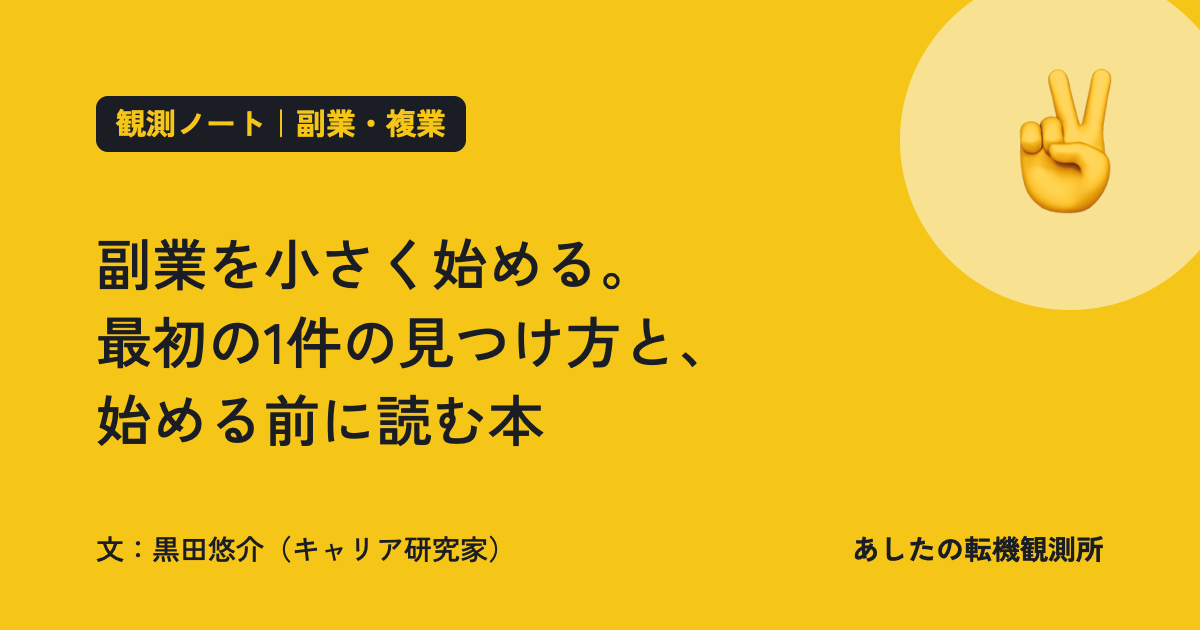
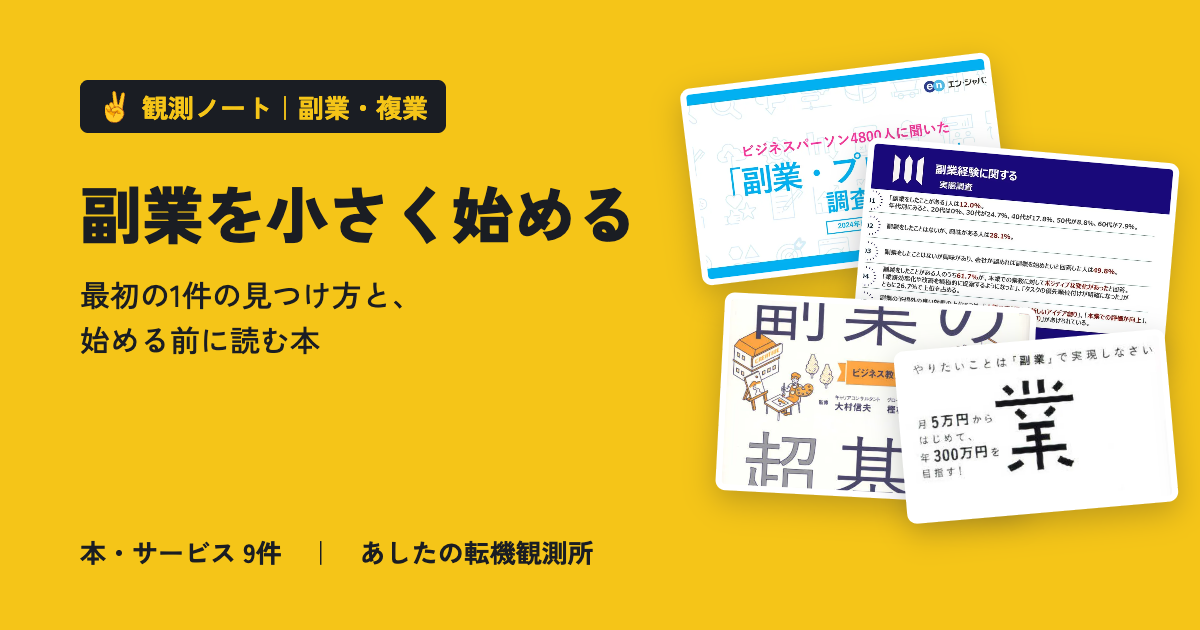
【デザイン】観測ノートの共有画像を案B「中身を見せる」にする（黒田さんの選択）
黄色の地の左に題名（「。」の前を大きく）、右に記事で紹介している本やサービスの画像を4枚まで重ねる。
Mac の Google Chrome で書き出す。

diff --git a/tools/make_og_images.py b/tools/make_og_images.py
@@ -2,7 +2,7 @@
 """共有画像（1200×630）を assets/og/ に作るスクリプト。
 転機別ページ・掛け合わせページの画像と、セルフチェックの画像（全体用1枚と、結果の段階ごとの4枚）を作る。
 
-Mac 専用（画像にするのに Mac の qlmanage を使う）。見出しの文面は config/tenki.json と check/check.js（段階のひとこと説明）から作るので、
+Mac 専用（画像にするのに Mac の qlmanage を使う。観測ノートの画像は Mac の Google Chrome で書き出す）。見出しの文面は config/tenki.json と check/check.js（段階のひとこと説明）から作るので、
 それらの名前や文面を変えたときにだけ実行し直して、できた画像をリポジトリに入れる。
 
   python3 tools/make_og_images.py
@@ -190,44 +190,101 @@ def antenna_svg():
     return re.search(r"<svg[^>]*>(.*)</svg>", src, re.S).group(1)
 
 
-def svg_note(note, fonts, antenna):
-    """観測ノートの共有画像。黄色の地に、転機の絵文字と記事タイトル。"""
-    title = note["title"]
+CHROME = "/Applications/Google Chrome.app/Contents/MacOS/Google Chrome"
+# 観測ノートの共有画像の重ねる画像の位置（左, 上, 傾き, 幅）。2026-11-20 黒田さんが見本の案B「中身を見せる」を選んだ
+NOTE_CARDS = [(690, 70, -7, 300), (860, 150, 5, 300), (720, 300, 3, 300), (900, 340, -5, 260)]
 
-    def lines_for(width):  # 「。」のあとでは必ず改行し、右上の絵文字の円にかからない幅で折り返す
-        out = []
-        for part in [p for p in title.replace("。", "。\n").split("\n") if p]:
-            out += wrap(part, width)
-        return out
-    size, width = 56, 15
-    lines = lines_for(width)
-    if len(lines) > 3:
-        size, width = 50, 16
-        lines = lines_for(width)
-    line_h = int(size * 1.4)
-    block = line_h * (len(lines) - 1)
-    top = int(345 - block / 2 + size * 0.35)  # 見出しの塊を、上のラベルと下の署名の間の真ん中に置く
-    # 2026-11-10 unslop の見直しでサイトの見出しを太さ500にしたので、画像の題名も 500（Medium）にそろえる（もとは 900）
-    title_svg = "".join('<text x="96" y="%d" font-family="ZK" font-weight="500" font-size="%d" fill="#1a1d23">%s</text>'
-                        % (top + i * line_h, size, esc(line)) for i, line in enumerate(lines))
+
+def split_title(title):
+    """題名を「。」（または「？」）の前（大きく出す）と後ろ（小さく出す）に分ける"""
+    for mark in ("。", "？"):
+        if mark in title:
+            head, rest = title.split(mark, 1)
+            return head + ("？" if mark == "？" else ""), rest
+    return title, ""
+
+
+def data_uri(path, mime):
+    with open(path, "rb") as f:
+        return "data:%s;base64,%s" % (mime, base64.b64encode(f.read()).decode())
+
+
+def two_lines(text):
+    """題名を2行に分ける。「、」のあと、次に助詞のあと（次がひらがなのときは言葉の途中なので切らない。「たら」のあとは切る）を選び、なるべく真ん中に近いところで切る"""
+    n, best = len(text), None
+    for i in range(2, n - 1):
+        prev, nxt = text[i - 1], text[i]
+        if prev in "、・":
+            score = 0
+        elif text[i - 2:i] == "たら" or (prev in "のをにはでとがもへ" and not ("\u3041" <= nxt <= "\u309f")):
+            score = 1
+        else:
+            score = 6
+        cost = score * 10 + abs(i - n / 2)
+        if best is None or cost < best[0]:
+            best = (cost, i)
+    i = best[1] if best else n // 2
+    return [text[:i], text[i:]]
+
+
+def html_note(note):
+    """観測ノートの共有画像（案B「中身を見せる」）。黄色の地の左に題名、右に記事で紹介している本やサービスの画像を4枚まで重ねる。
+    画像がない記事は、題名を横いっぱいに使う。題名は「。」の前を1行に収まる大きさで大きく、後ろを小さく出す。"""
+    head, rest = split_title(note["title"])
+    imgs = [i for i in note.get("ids", []) if i in build.IMAGES and os.path.exists(os.path.join(ROOT, "images", "items", i + ".webp"))][:4]
+    text_w = 560 if imgs else 1040  # 右の画像（左端 690px、傾きで少し左へはみ出す）にかからない幅
+    n = max(len(head), 1)
+    if text_w // n >= 44:  # 1行に収まるなら1行で大きく
+        size, per = min(62, text_w // n), n
+    else:  # 2行に分ける（折り返しは言葉の切れ目で）
+        lines = two_lines(head)
+        per = max(len(l) for l in lines)
+        size = min(58, text_w // per)
+    head_html = "<br>".join(esc(l) for l in (wrap(head, per) if per == n else two_lines(head)))
+    rest_html = "<br>".join(esc(l) for l in (two_lines(rest) if len(rest) > text_w // 30 else [rest]))
+    cards = "".join(
+        '<div style="position:absolute;left:%dpx;top:%dpx;width:%dpx;height:%dpx;transform:rotate(%ddeg);'
+        'background:#fff url(%s) center/cover;border-radius:10px;box-shadow:0 10px 30px rgba(26,29,35,.25);border:6px solid #fff"></div>'
+        % (x, y, w, int(w * 0.62), r, data_uri(os.path.join(ROOT, "images", "items", i + ".webp"), "image/webp"))
+        for (x, y, r, w), i in zip(NOTE_CARDS, imgs))
     names = [t for t in note["tenki"] if t in build.TENKI_BY_NAME]
-    emo = build.TENKI_BY_NAME[names[0]].get("emoji", "") if names else ""
+    emo = ""
+    if names and build.TENKI_BY_NAME[names[0]].get("emoji"):
+        name = build.emoji_file(build.TENKI_BY_NAME[names[0]]["emoji"])
+        if name:
+            emo = '<img src="%s" style="width:34px;height:34px">' % data_uri(os.path.join(ROOT, "assets", "emoji", name + ".svg"), "image/svg+xml")
     label = "観測ノート" + ("｜" + "・".join(names) if names else "")
-    pill_w = 40 + int(len(label) * 30)
-    return """<svg xmlns="http://www.w3.org/2000/svg" width="750" height="393.75" viewBox="0 0 1200 630">
-<style>
-@font-face{{font-family:ZK;font-weight:500;src:url(data:font/ttf;base64,{black}) format("truetype");}}
-@font-face{{font-family:ZK;font-weight:700;src:url(data:font/ttf;base64,{bold}) format("truetype");}}
+    count = len(note.get("ids", []))
+    font = "file://" + FONTS
+    return """<!doctype html><meta charset=utf-8><style>
+@font-face{{font-family:ZK;font-weight:500;src:url({font}/ZenKakuGothicNew-Medium.ttf)}}
+@font-face{{font-family:ZK;font-weight:700;src:url({font}/ZenKakuGothicNew-Bold.ttf)}}
+@font-face{{font-family:ZK;font-weight:900;src:url({font}/ZenKakuGothicNew-Black.ttf)}}
+html,body{{margin:0;width:1200px;height:630px;overflow:hidden}}
 </style>
-<rect width="1200" height="630" fill="#f5c518"/>
-<circle cx="1070" cy="140" r="170" fill="#fbfaf5" opacity="0.55"/>
-<text x="1070" y="198" text-anchor="middle" font-family="Apple Color Emoji" font-size="150">{emo}</text>
-<rect x="96" y="96" width="{pill_w}" height="56" rx="12" fill="#1a1d23"/>
-<text x="{pill_x}" y="135" font-family="ZK" font-weight="700" font-size="30" fill="#f5c518">{label}</text>
-{title}
-<text x="96" y="560" font-family="ZK" font-weight="500" font-size="28" fill="#1a1d23">文：黒田悠介（キャリア研究家）</text>
-<text x="1104" y="560" text-anchor="end" font-family="ZK" font-weight="700" font-size="28" fill="#1a1d23">あしたの転機観測所</text>
-</svg>""".format(black=fonts[0], bold=fonts[1], emo=esc(emo), pill_w=pill_w, pill_x=116, label=esc(label), title=title_svg)
+<div style="position:relative;width:1200px;height:630px;background:#f5c518;color:#1a1d23;font-family:ZK,sans-serif;overflow:hidden">
+{cards}
+<div style="position:absolute;left:80px;top:80px;width:{text_w}px">
+ <div style="display:inline-flex;align-items:center;gap:10px;background:#1a1d23;color:#f5c518;font-weight:700;font-size:26px;padding:8px 18px;border-radius:8px">{emo}{label}</div>
+ <div style="margin-top:40px;font-weight:900;font-size:{size}px;line-height:1.28">{head}</div>
+ <div style="margin-top:20px;font-weight:500;font-size:30px;line-height:1.5">{rest}</div></div>
+<div style="position:absolute;left:80px;bottom:60px;font-size:26px;font-weight:700">{count_text}あしたの転機観測所</div>
+</div>""".format(font=font, cards=cards, text_w=text_w, emo=emo, label=esc(label), size=size, head=head_html, rest=rest_html,
+                 count_text=("本・サービス %d件　｜　" % count) if count else "")
+
+
+def render_html(pages):
+    """HTML の共有画像を Chrome（画面なし）で 1200×630 の PNG にする"""
+    os.makedirs(OUT, exist_ok=True)
+    with tempfile.TemporaryDirectory() as tmp:
+        for name, title, body in pages:
+            src = os.path.join(tmp, name + ".html")
+            with open(src, "w", encoding="utf-8") as f:
+                f.write(body)
+            subprocess.run([CHROME, "--headless=new", "--hide-scrollbars", "--allow-file-access-from-files", "--window-size=1200,630",
+                            "--virtual-time-budget=3000", "--screenshot=" + os.path.join(OUT, name + ".png"), "file://" + src],
+                           check=True, stdout=subprocess.DEVNULL, stderr=subprocess.DEVNULL)
+            print("作成:", name, "／", title)
 
 
 def render(pages):
@@ -244,16 +301,15 @@ def render(pages):
 
 
 def main_notes():
-    """観測ノートの共有画像（assets/og/note-<スラッグ>.png）を、下書きも含めて全記事ぶん作り直す。
-    題名と署名は Medium（500）、札とサイト名は Bold（700）。札の角は小さく（サイトの札と同じ考え方。2026-11-10）"""
-    fonts = (font_b64("ZenKakuGothicNew-Medium"), font_b64("ZenKakuGothicNew-Bold"))
-    antenna = antenna_svg()
+    """観測ノートの共有画像（assets/og/note-<スラッグ>.png）を、下書きも含めて全記事ぶん作り直す（案B、Chrome で書き出す）。"""
+    for name in ("ZenKakuGothicNew-Medium", "ZenKakuGothicNew-Bold", "ZenKakuGothicNew-Black"):
+        font_b64(name)  # なければ tools/fonts/ へダウンロードしておく
     pages = []
     for name in sorted(os.listdir(build.NOTES_DIR)):
         if name.endswith(".md") and not name.startswith("_"):
             n = build.parse_note_file(os.path.join(build.NOTES_DIR, name))
-            pages.append(("note-" + n["slug"], n["title"], svg_note(n, fonts, antenna)))
-    render(pages)
+            pages.append(("note-" + n["slug"], n["title"], html_note(n)))
+    render_html(pages)
 
 
 def main():
